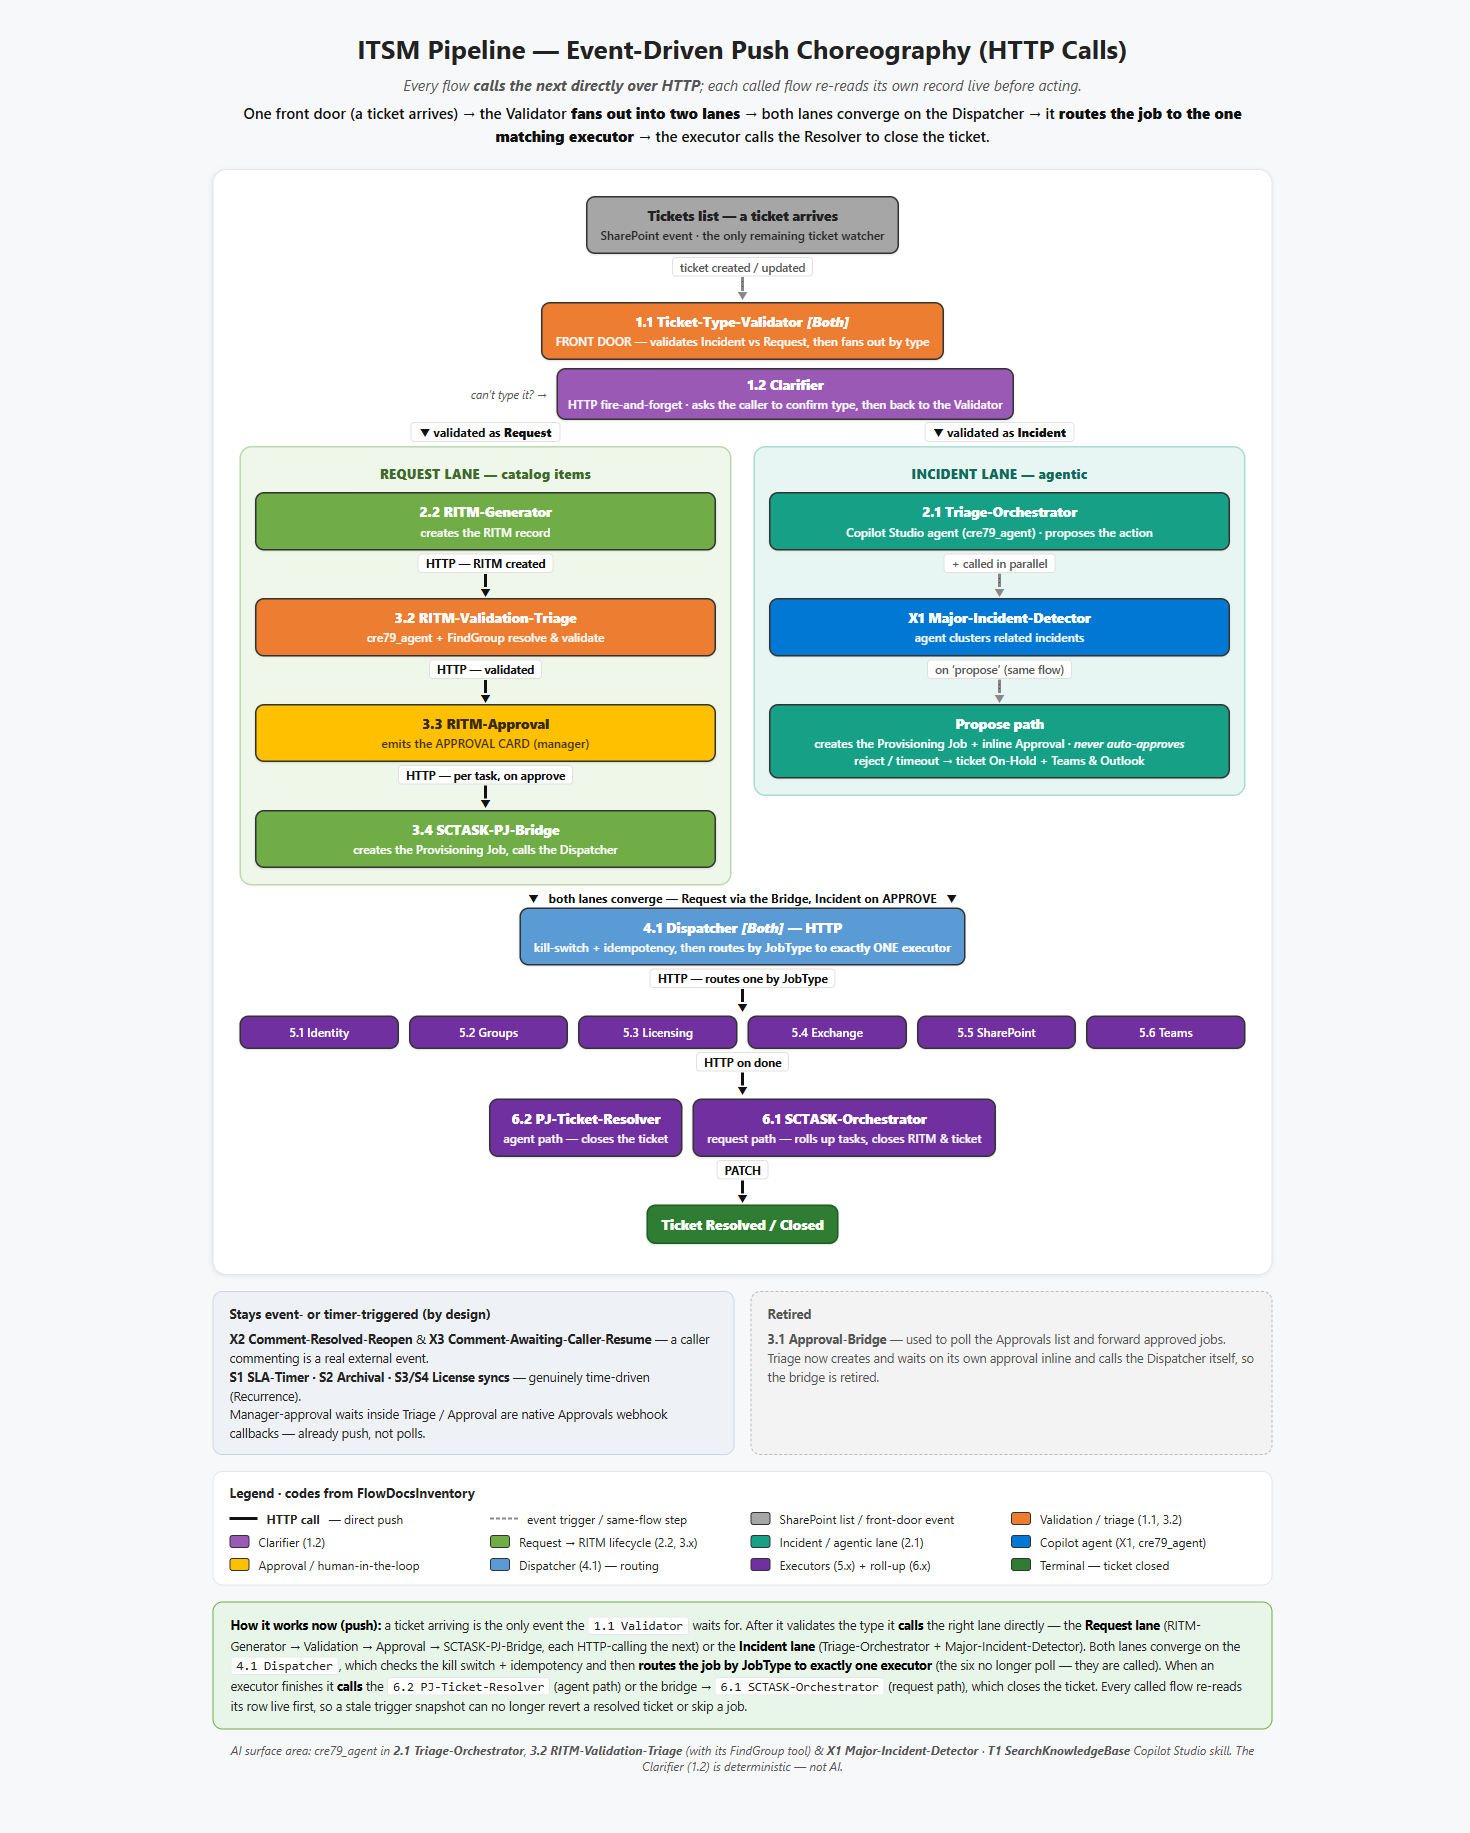
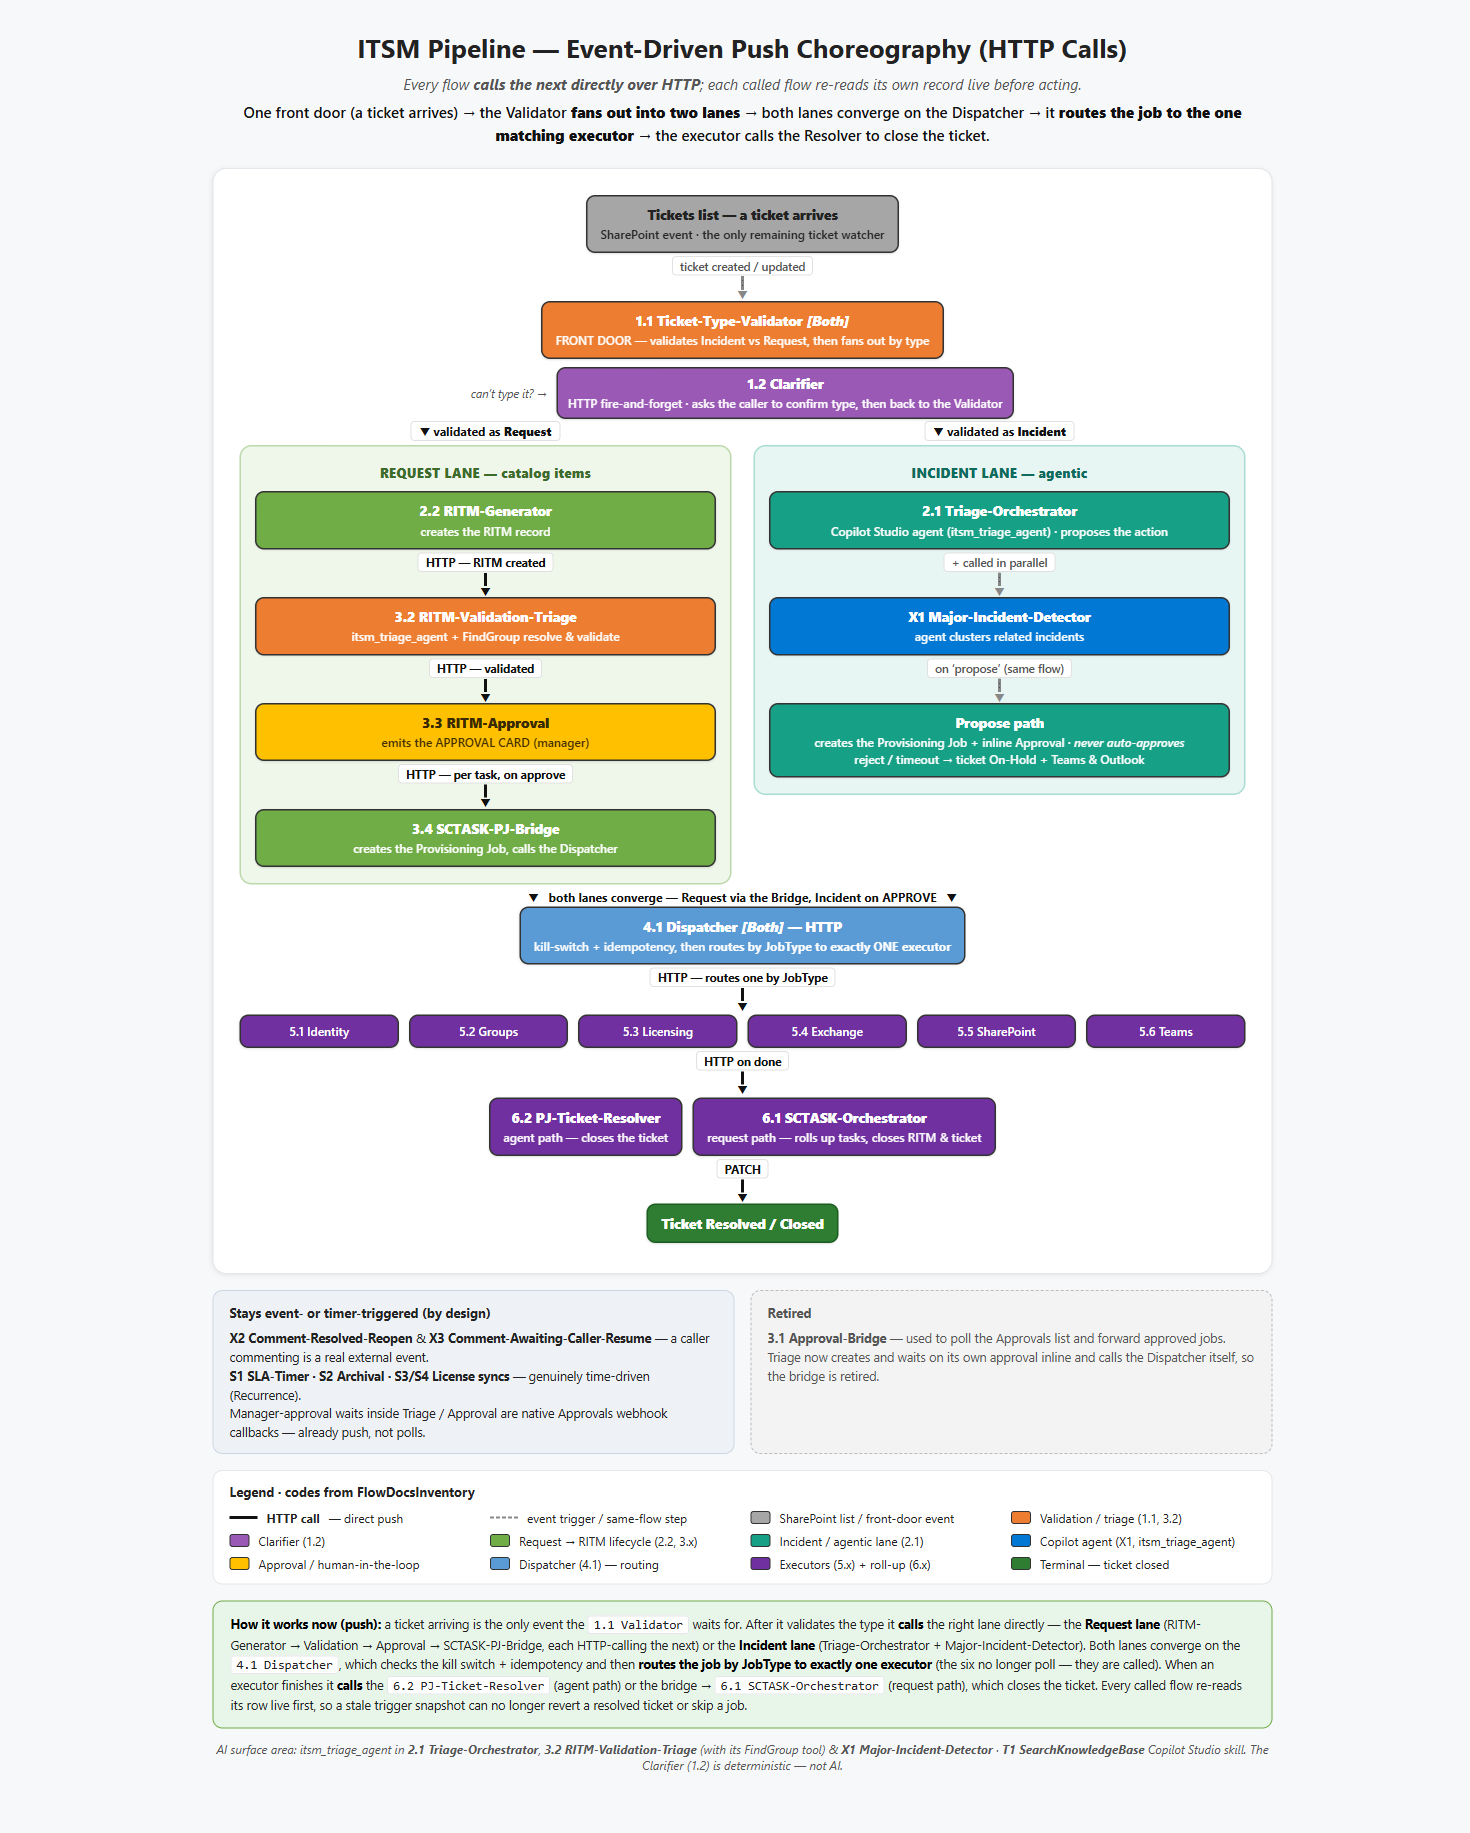
Sanitize public repo: placeholder the agent schema name and real connection IDs
Replace cre79_agent -> itsm_triage_agent (agent YAML, 3 flow defs, docs, diagram) and the real connection instance GUIDs (SharePoint, WorkIQ user/teams/sharepoint, Key Vault) -> placeholder GUIDs. No tenant-internal agent/connection identifiers remain in the public copy. Diagram PNG re-rendered.

diff --git a/docs/ITSM_process_diagram.html b/docs/ITSM_process_diagram.html
@@ -131,7 +131,7 @@
         <div class="lane-head">REQUEST LANE &mdash; catalog items</div>
         <div class="box ritm"><span class="code">2.2 RITM-Generator</span><span class="desc">creates the RITM record</span></div>
         <div class="arrow"><span class="lbl">HTTP &mdash; RITM created</span><span class="line"></span><span class="head">&#9660;</span></div>
-        <div class="box triage"><span class="code">3.2 RITM-Validation-Triage</span><span class="desc">cre79_agent + FindGroup resolve &amp; validate</span></div>
+        <div class="box triage"><span class="code">3.2 RITM-Validation-Triage</span><span class="desc">itsm_triage_agent + FindGroup resolve &amp; validate</span></div>
         <div class="arrow"><span class="lbl">HTTP &mdash; validated</span><span class="line"></span><span class="head">&#9660;</span></div>
         <div class="box approve"><span class="code">3.3 RITM-Approval</span><span class="desc">emits the APPROVAL CARD (manager)</span></div>
         <div class="arrow"><span class="lbl">HTTP &mdash; per task, on approve</span><span class="line"></span><span class="head">&#9660;</span></div>
@@ -141,7 +141,7 @@
       <!-- INCIDENT LANE -->
       <div class="lane inc">
         <div class="lane-head">INCIDENT LANE &mdash; agentic</div>
-        <div class="box agent"><span class="code">2.1 Triage-Orchestrator</span><span class="desc">Copilot Studio agent (cre79_agent) · proposes the action</span></div>
+        <div class="box agent"><span class="code">2.1 Triage-Orchestrator</span><span class="desc">Copilot Studio agent (itsm_triage_agent) · proposes the action</span></div>
         <div class="arrow evt"><span class="lbl">+ called in parallel</span><span class="line"></span><span class="head">&#9660;</span></div>
         <div class="box ai"><span class="code">X1 Major-Incident-Detector</span><span class="desc">agent clusters related incidents</span></div>
         <div class="arrow evt"><span class="lbl">on &lsquo;propose&rsquo; (same flow)</span><span class="line"></span><span class="head">&#9660;</span></div>
@@ -213,7 +213,7 @@
       <div class="li"><span class="sw" style="background:var(--clar)"></span> Clarifier (1.2)</div>
       <div class="li"><span class="sw" style="background:var(--ritm)"></span> Request → RITM lifecycle (2.2, 3.x)</div>
       <div class="li"><span class="sw" style="background:var(--agent)"></span> Incident / agentic lane (2.1)</div>
-      <div class="li"><span class="sw" style="background:var(--ai)"></span> Copilot agent (X1, cre79_agent)</div>
+      <div class="li"><span class="sw" style="background:var(--ai)"></span> Copilot agent (X1, itsm_triage_agent)</div>
       <div class="li"><span class="sw" style="background:var(--approve)"></span> Approval / human-in-the-loop</div>
       <div class="li"><span class="sw" style="background:var(--intake)"></span> Dispatcher (4.1) — routing</div>
       <div class="li"><span class="sw" style="background:var(--exec)"></span> Executors (5.x) + roll-up (6.x)</div>
@@ -233,7 +233,7 @@
     </div>
   </div>
 
-  <p class="ai-foot">AI surface area: cre79_agent in <b>2.1 Triage-Orchestrator</b>, <b>3.2 RITM-Validation-Triage</b> (with its FindGroup tool)
+  <p class="ai-foot">AI surface area: itsm_triage_agent in <b>2.1 Triage-Orchestrator</b>, <b>3.2 RITM-Validation-Triage</b> (with its FindGroup tool)
     &amp; <b>X1 Major-Incident-Detector</b>
     · <b>T1 SearchKnowledgeBase</b> Copilot Studio skill. The Clarifier (1.2) is deterministic — not AI.</p>
 

diff --git a/flows/triage-orchestrator/SPEC.md b/flows/triage-orchestrator/SPEC.md
@@ -8,7 +8,7 @@
 
 ## Purpose
 
-Bridge stage 1 (intake) and stage 2 (triage) of the ITSM architecture. The flow watches the `Tickets` SharePoint list for new rows, calls the **Helpdesk Triage Agent** (`cre79_agent`) to classify them, parses a tagged JSON block from the agent's reply, and either:
+Bridge stage 1 (intake) and stage 2 (triage) of the ITSM architecture. The flow watches the `Tickets` SharePoint list for new rows, calls the **Helpdesk Triage Agent** (`itsm_triage_agent`) to classify them, parses a tagged JSON block from the agent's reply, and either:
 
 - **deflects** (KB match — closes the ticket as Resolved with the agent's rationale)
 - **stops and asks** (low confidence / ambiguous — sets ticket On Hold, Awaiting Caller)
@@ -53,7 +53,7 @@ and TicketTypeValidated = true
    shortDescription, description, openedDate; appends instructions for the agent
    to emit a tagged ==TRIAGE_RESULT== JSON block.
 3. Execute_Agent_Triage — OpenApiConnectionWebhook on shared_microsoftcopilotstudio,
-   operation ExecuteCopilotAsyncV2, Copilot=cre79_agent, body/message=prompt.
+   operation ExecuteCopilotAsyncV2, Copilot=itsm_triage_agent, body/message=prompt.
 4. Set_AgentRawReply from outputs('Execute_Agent_Triage')?['body/lastResponse']
 5. Compose_ExtractedBlock — substring between '==TRIAGE_RESULT==' and '==END=='
    markers; empty string if either marker is missing.
@@ -144,7 +144,7 @@ This insert fires the existing Approval flow trigger (`Status eq 'Proposed'` fil
 
 | Connector | connectionName | Purpose |
 |---|---|---|
-| `shared_sharepointonline` | `f1550c57e913479793d6de83b61fa1b0` | SP triggers + writes |
+| `shared_sharepointonline` | `00000000000000000000000000000001` | SP triggers + writes |
 | `shared_microsoftcopilotstudio` | `shared-microsoftcopi-00000000-0000-4000-8000-000000000041` | Agent invocation |
 
 If either connection's token is stale, the flow run will surface an `Unauthorized` error in the Set_AgentRawReply or PatchItem steps. Re-auth in the Power Automate portal.

diff --git a/IMPLEMENTATION-PLAYBOOK.md b/IMPLEMENTATION-PLAYBOOK.md
@@ -118,8 +118,8 @@ flowchart TD
 
 | Connection | id | Used by |
 |---|---|---|
-| shared_sharepointonline | `f1550c57e913479793d6de83b61fa1b0` | All flows |
-| shared_keyvault | `3902492e65ec448ea29a4c6752190756` | Identity-Executor |
+| shared_sharepointonline | `00000000000000000000000000000001` | All flows |
+| shared_keyvault | `00000000000000000000000000000005` | Identity-Executor |
 | shared_microsoftcopilotstudio | `shared-microsoftcopi-00000000-0000-4000-8000-000000000041` | Triage-Orchestrator |
 
 ---
@@ -264,7 +264,7 @@ OAuth-based PA connections require interactive consent. There is no programmatic
 4. **Vault name:** `kv-itsm-demo-XXXX` (the one from Phase 7).
 5. Sign in with Catherine's account → Create.
 
-Note the connection id (e.g. `3902492e65ec448ea29a4c6752190756`) for use in flow definitions.
+Note the connection id (e.g. `00000000000000000000000000000005`) for use in flow definitions.
 
 ### Phase 9 — Identity Executor flow (~30 min)
 
@@ -282,7 +282,7 @@ $body = @{
         definition = $def
         connectionReferences = @{
             shared_sharepointonline = @{
-                connectionName = "f1550c57e913479793d6de83b61fa1b0"
+                connectionName = "00000000000000000000000000000001"
                 id = "/providers/Microsoft.PowerApps/apis/shared_sharepointonline"
             }
             shared_keyvault = @{

diff --git a/agents/triage/README.md b/agents/triage/README.md
@@ -24,7 +24,7 @@ The agent is **not** a user-facing chatbot and does **not** create tickets itsel
 
 ## Status
 
-**Deployed and live** in the Flow Studio Demo environment. Schema name `cre79_agent`. All tenant-specific values in this public copy are placeholders — `contoso.onmicrosoft.com`, `https://contoso.sharepoint.com`, zero-GUID tenant/environment IDs.
+**Deployed and live** in the Flow Studio Demo environment. Schema name `itsm_triage_agent`. All tenant-specific values in this public copy are placeholders — `contoso.onmicrosoft.com`, `https://contoso.sharepoint.com`, zero-GUID tenant/environment IDs.
 
 The retired pre-deploy model — an agent-callable `ProposeAction`/`LogHumanTicket` flow-action pair that let the agent write its own audit records — was removed under ADR 0002. The agent no longer holds any flow action; it only returns a decision the orchestrator acts on.
 

diff --git a/agents/triage/SPEC.md b/agents/triage/SPEC.md
@@ -9,7 +9,7 @@ The agent runs **flow-drives-agent** (ADR [0002](../../decisions/0002-triage-app
 | Field | Value |
 |---|---|
 | Display name | `Helpdesk Triage Agent` |
-| Schema name | `cre79_agent` |
+| Schema name | `itsm_triage_agent` |
 | Auth mode | **M365 SSO (Integrated)**, `authenticationTrigger: Always` |
 | Access control | GroupMembership |
 | Recognizer | `GenerativeAIRecognizer` |
